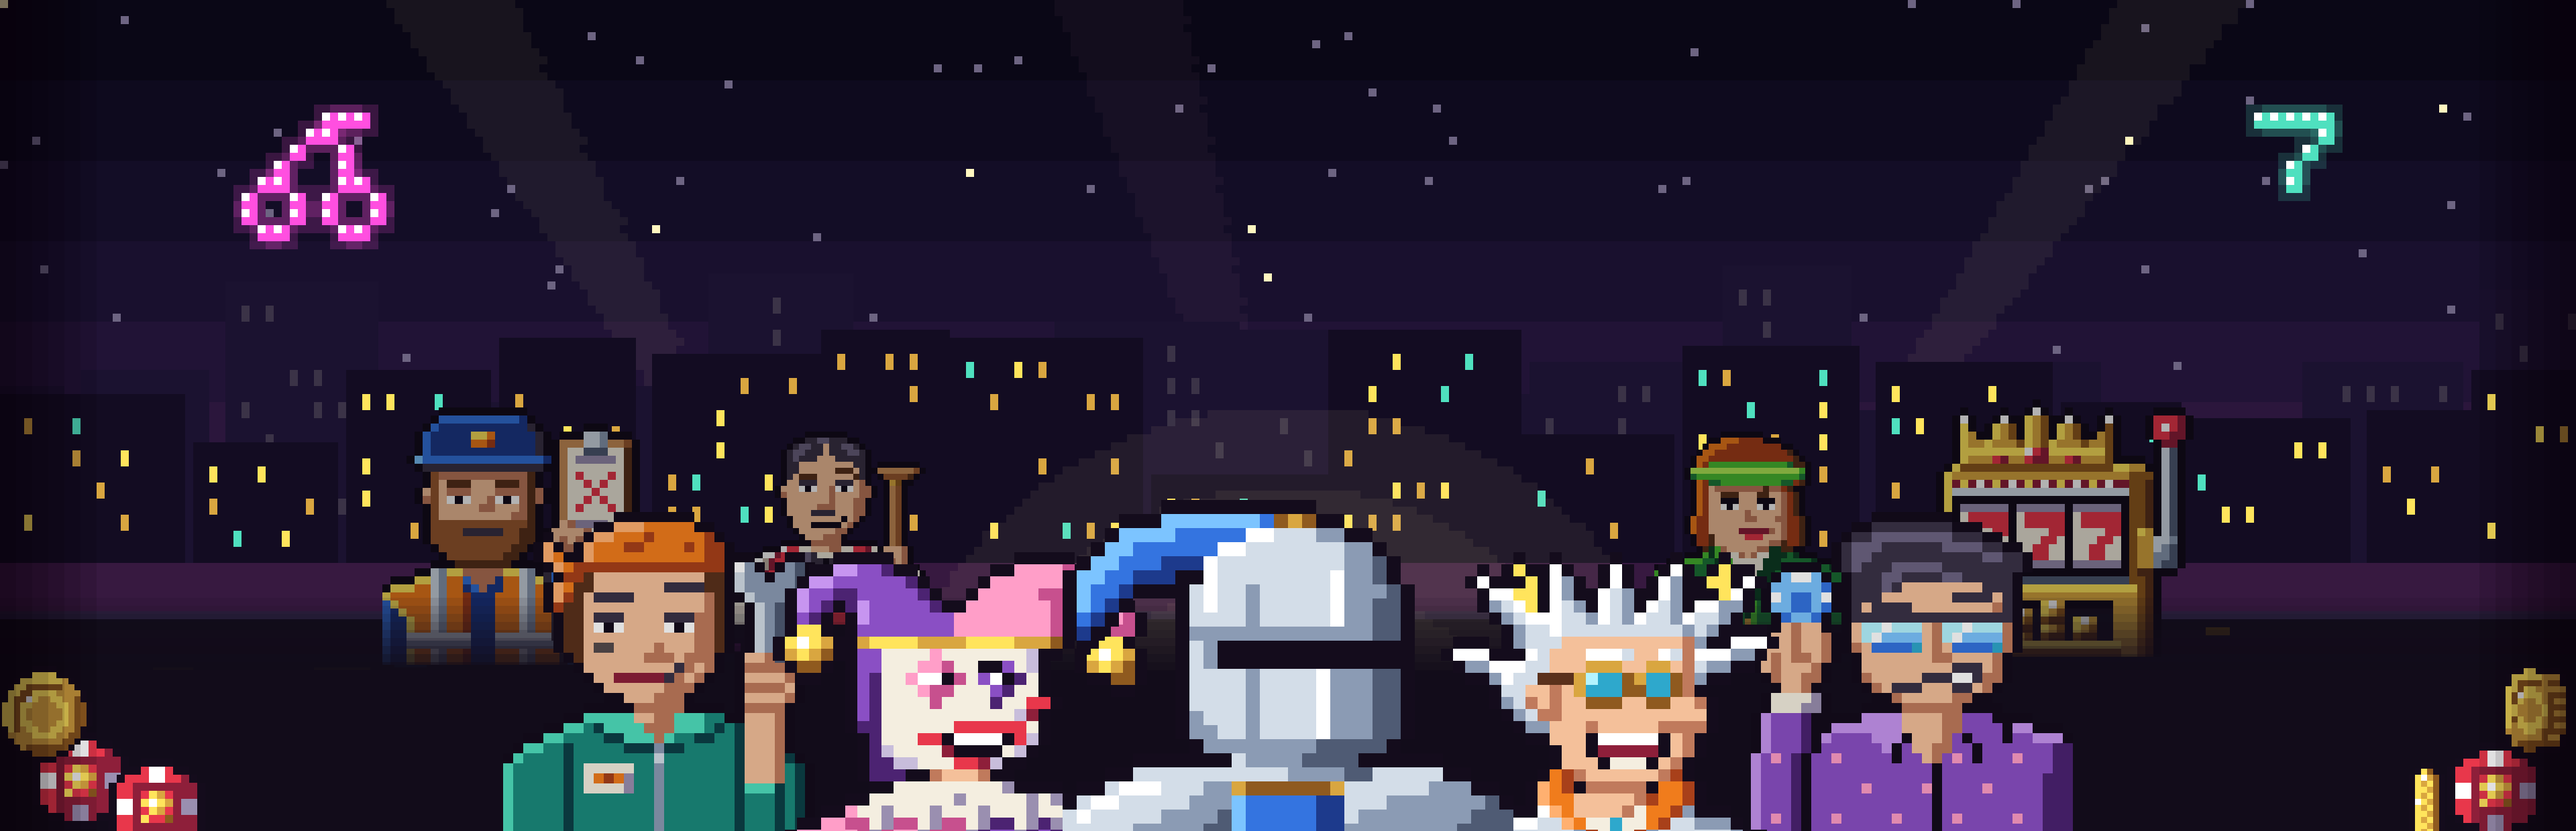
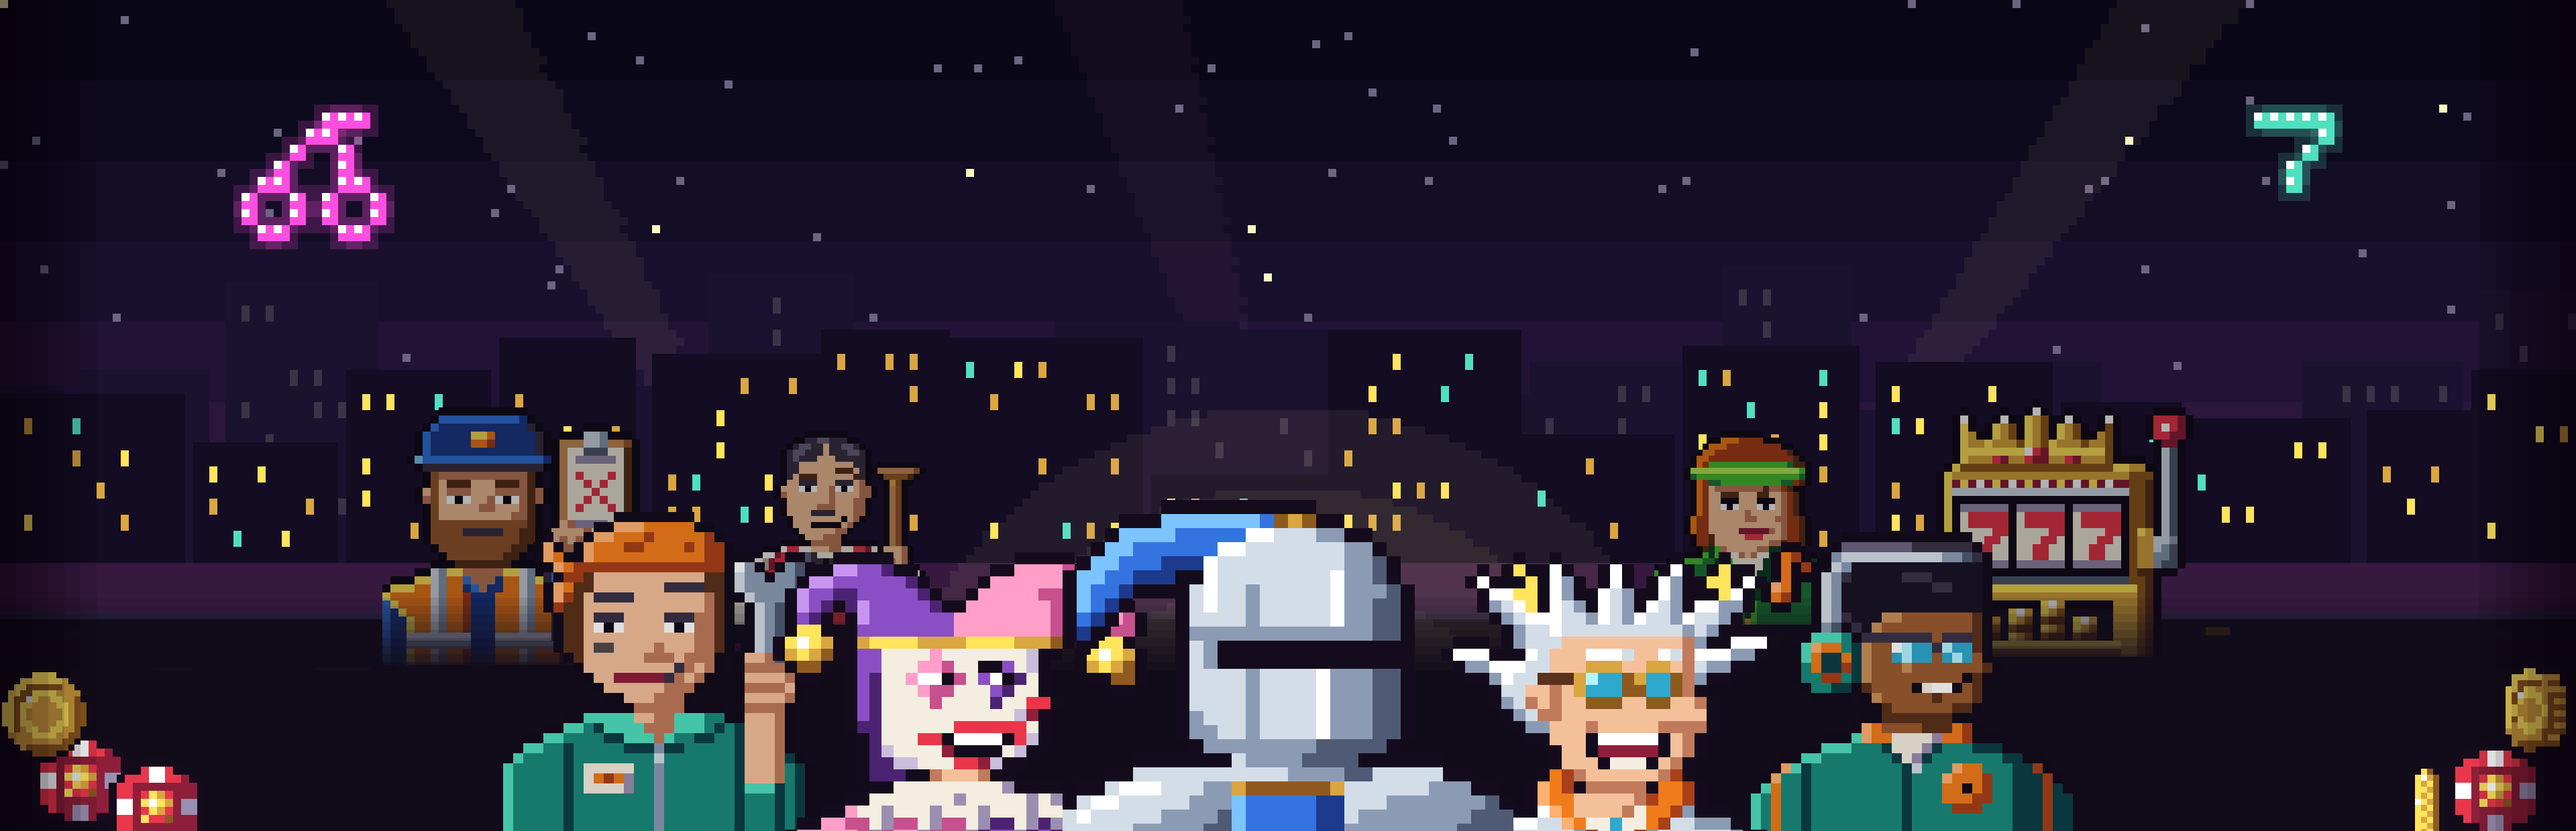
Capsule: the Jukebox in for the cut Mimic
Claude-Session: https://claude.ai/code/session_013JAoFkP3rUutQYujjwpYvm

Changed region(s): [[0.6562, 0.6129, 0.8125, 1.0]]

diff --git a/art/capsule/gang.js b/art/capsule/gang.js
@@ -10,7 +10,7 @@ street(L.hz + 6);
 glow(Math.round(cx / G), Math.round((by + 62 * f) / G), Math.round(52 * f * 4 / G), '#ffe6aa');
 const P = (id, dx, dy, s, dim) => S(id, Math.round(cx + dx * f * sx), Math.round(by + dy * f * sy), sc(s), dim ? { dim } : undefined);
 const back = [['enemyRepoMan', -386, -80, 4], ['enemyCroupier', -228, -84, 3], ['enemyWheel', 230, -84, 3], ['enemyBoss', 386, -84, 4]];
-const mid = [['enemyGremlin', -310, -12, 5], ['enemyMimic', 310, -12, 5]];
+const mid = [['enemyGremlin', -310, -12, 5], ['heroJukebox', 310, -12, 5]];
 const front = [['heroJoker', -160, 12, 6], ['heroTesla', 160, 12, 6]];
 // tall formats place the cast by hand: [id, x, y, scale, dim] in px
 // L.fade [y0, y1]: once the back row is down, its bust edges sink into the dark crowd
